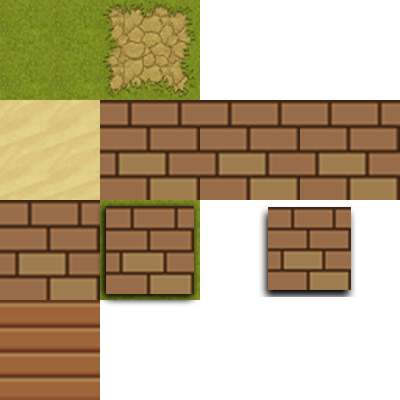
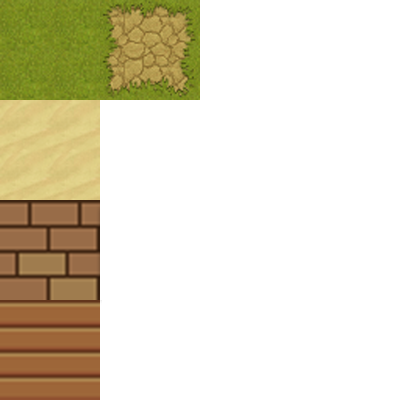
add wall collision handling

diff --git a/js/Player.js b/js/Player.js
@@ -25,6 +25,7 @@ class Player {
 		this.hungerBar = new HungerBar(HUNGER_BAR_COLOR);
 		this.coldBar = new ColdBar(COLD_BAR_COLOR);
 		this.enduranceBar = new EnduranceBar(ENDURANCE_BAR_COLOR);
+
 	}
 
 	update(map) {
@@ -61,7 +62,8 @@ class Player {
 		}
 		
 		this.controller();
-		//this.checkCollisionWithSolidObjects(map);
+		this.checkCollisionWithSolidObjects(map);
+		
 	}
 
 	focusCamera() {
@@ -127,27 +129,69 @@ class Player {
 	}
 
 	checkCollisionWithSolidObjects(map) {
+	
+
 		let playerTileX = (this.pos.x / TILE_W) | 0;
-        let playerTileY = (this.pos.x / TILE_H) | 0;
+        let playerTileY = (this.pos.y / TILE_H) | 0;
 
-        let lW = playerTileX - 2;
-        let rW = playerTileX + 2;
-        let uH = playerTileY - 2;
-		let dH = playerTileY + 2;
+        let lW = playerTileX - 1;
+        let rW = playerTileX + 1;
+        let uH = playerTileY - 1;
+		let dH = playerTileY + 1;
 
-		for(let i = lW; i < rW; i++) {
-            for(let j = uH; j < dH; j++) {
-				if(map.map[j][i].spriteID == 9) {
-					this.isIntersects(this.pos.x, this.pos.y, map.map[j][i].pos.x, map.map[j][i].pos.y);
-				}
+		if(playerTileX < map.map[0].length / 2){
+            if(lW < 0){
+                lW = 0;
+            }
+        } else {
+            if(rW > map.map[0].length){
+                rW = map.map[0].length;
+            }
+        }
+
+        if(playerTileY < map.map.length / 2){
+            if(uH < 0){
+                uH = 0;
+            }
+        } else {
+            if(dH > map.map.length){
+                dH = map.map.length;
             }
 		}
+
+
+		this.handleCollisionWithWalls(this.pos, map.map, playerTileX, playerTileY, lW, rW, uH, dH);
+		
+		//this.hadndleCollisionWithWalls(this.pos, map.map[uH][playerTileX], 'up');
+		//this.hadndleCollisionWithWalls(this.pos, map.map[playerTileY][rW], 'right');
+		//this.hadndleCollisionWithWalls(this.pos, map.map[dH][playerTileX], 'down');
+		//this.hadndleCollisionWithWalls(this.pos, map.map[playerTileY][lW], 'left');
 	}
 
-	isIntersects(plX, plY, tileX, tileY) {
-		//-->
-		if(plX > tileX && plX < tileX + TILE_W && plY > tileY && plY < tileX + TILE_H) {
-			this.pos.x = tileX - 1;
+	handleCollisionWithWalls(plCoors, map, playerTileX, playerTileY, lW, rW, uH, dH) {
+		//up
+		if(map[uH][playerTileX].spriteID == 9) {
+			if(plCoors.y <= map[uH][playerTileX].pos.y + TILE_H + 10) {
+				this.pos.y = map[uH][playerTileX].pos.y + TILE_H + 10;
+			}
+		}
+		//right
+		if(map[playerTileY][rW].spriteID == 9) {
+			if(plCoors.x >= map[playerTileY][rW].pos.x - 10) {
+				this.pos.x = map[playerTileY][rW].pos.x - 10;
+			}
+		}
+		//down
+		if(map[dH][playerTileX].spriteID == 9) {
+			if(plCoors.y >= map[dH][playerTileX].pos.y - 10) {
+				this.pos.y = map[dH][playerTileX].pos.y - 10;
+			}
+		}
+		//left
+		if(map[playerTileY][lW].spriteID == 9) {
+			if(plCoors.x <= map[playerTileY][lW].pos.x + TILE_W + 10) {
+				this.pos.x = map[playerTileY][lW].pos.x + TILE_W + 10;
+			}
 		}
 	}
 }

diff --git a/js/Map.js b/js/Map.js
@@ -20,17 +20,22 @@ class Map {
                 let imgX = 0, imgY = 0;
 
                 switch(json.layers[0].data[jsonIndex]) {
+                    case 1: //grass
+                        imgX = 0;
+                        imgY = 0;
+                        break;
                     case 2: 
                         imgX = 100;
                         imgY = 0;
                         break;
-                    case 5: //sand 
-                        imgX = 0;
-                        imgY = 100;
-                        break;
-                    case 9: 
+                    case 9: //brick wall 
                         imgX = 0;
                         imgY = 200;
+                        break;
+                    case 13: //wooden floor
+                        imgX = 0;
+                        imgY = 300;
+                        break;
                 }
 
                 tmpMap[i][j] = new Tile(tileX, tileY, imgX, imgY, json.layers[0].data[jsonIndex]);

diff --git a/js/tile.js b/js/tile.js
@@ -14,10 +14,15 @@ class Tile {
             this.pos.x,
             this.pos.y, 
             TILE_W, 
-            TILE_W, 
+            TILE_H, 
             this.imgPos.x, 
             this.imgPos.y, 
             TILE_W, 
-            TILE_W);
+            TILE_H);
+    }
+
+    debugUpdate() {
+        fill(255, 50);
+        rect(this.pos.x, this.pos.y, TILE_W, TILE_H);
     }
 }

diff --git a/js/Game.js b/js/Game.js
@@ -36,7 +36,7 @@ function draw() {
 
     map.update(player.pos);
 
-    if(randInt(0, 300) == 0) {
+    if(randInt(0, 1000) == 0) {
         enemies.push(new Enemy(randInt(0, MAP_SIZE_X * TILE_W), randInt(0, MAP_SIZE_Y * TILE_H), ENTITY_DIAMETR / 2));
     }
 

diff --git a/js/data.js b/js/data.js
@@ -7,8 +7,8 @@ const TEXTSIZE_TECHDATA = 14;
 const ENTITY_DIAMETR = 100;
 
 //map
-const MAP_SIZE_X = 40;
-const MAP_SIZE_Y = 20;
+const MAP_SIZE_X = 80;
+const MAP_SIZE_Y = 80;
 
 const TILE_W = 100; 
 const TILE_H = 100;
